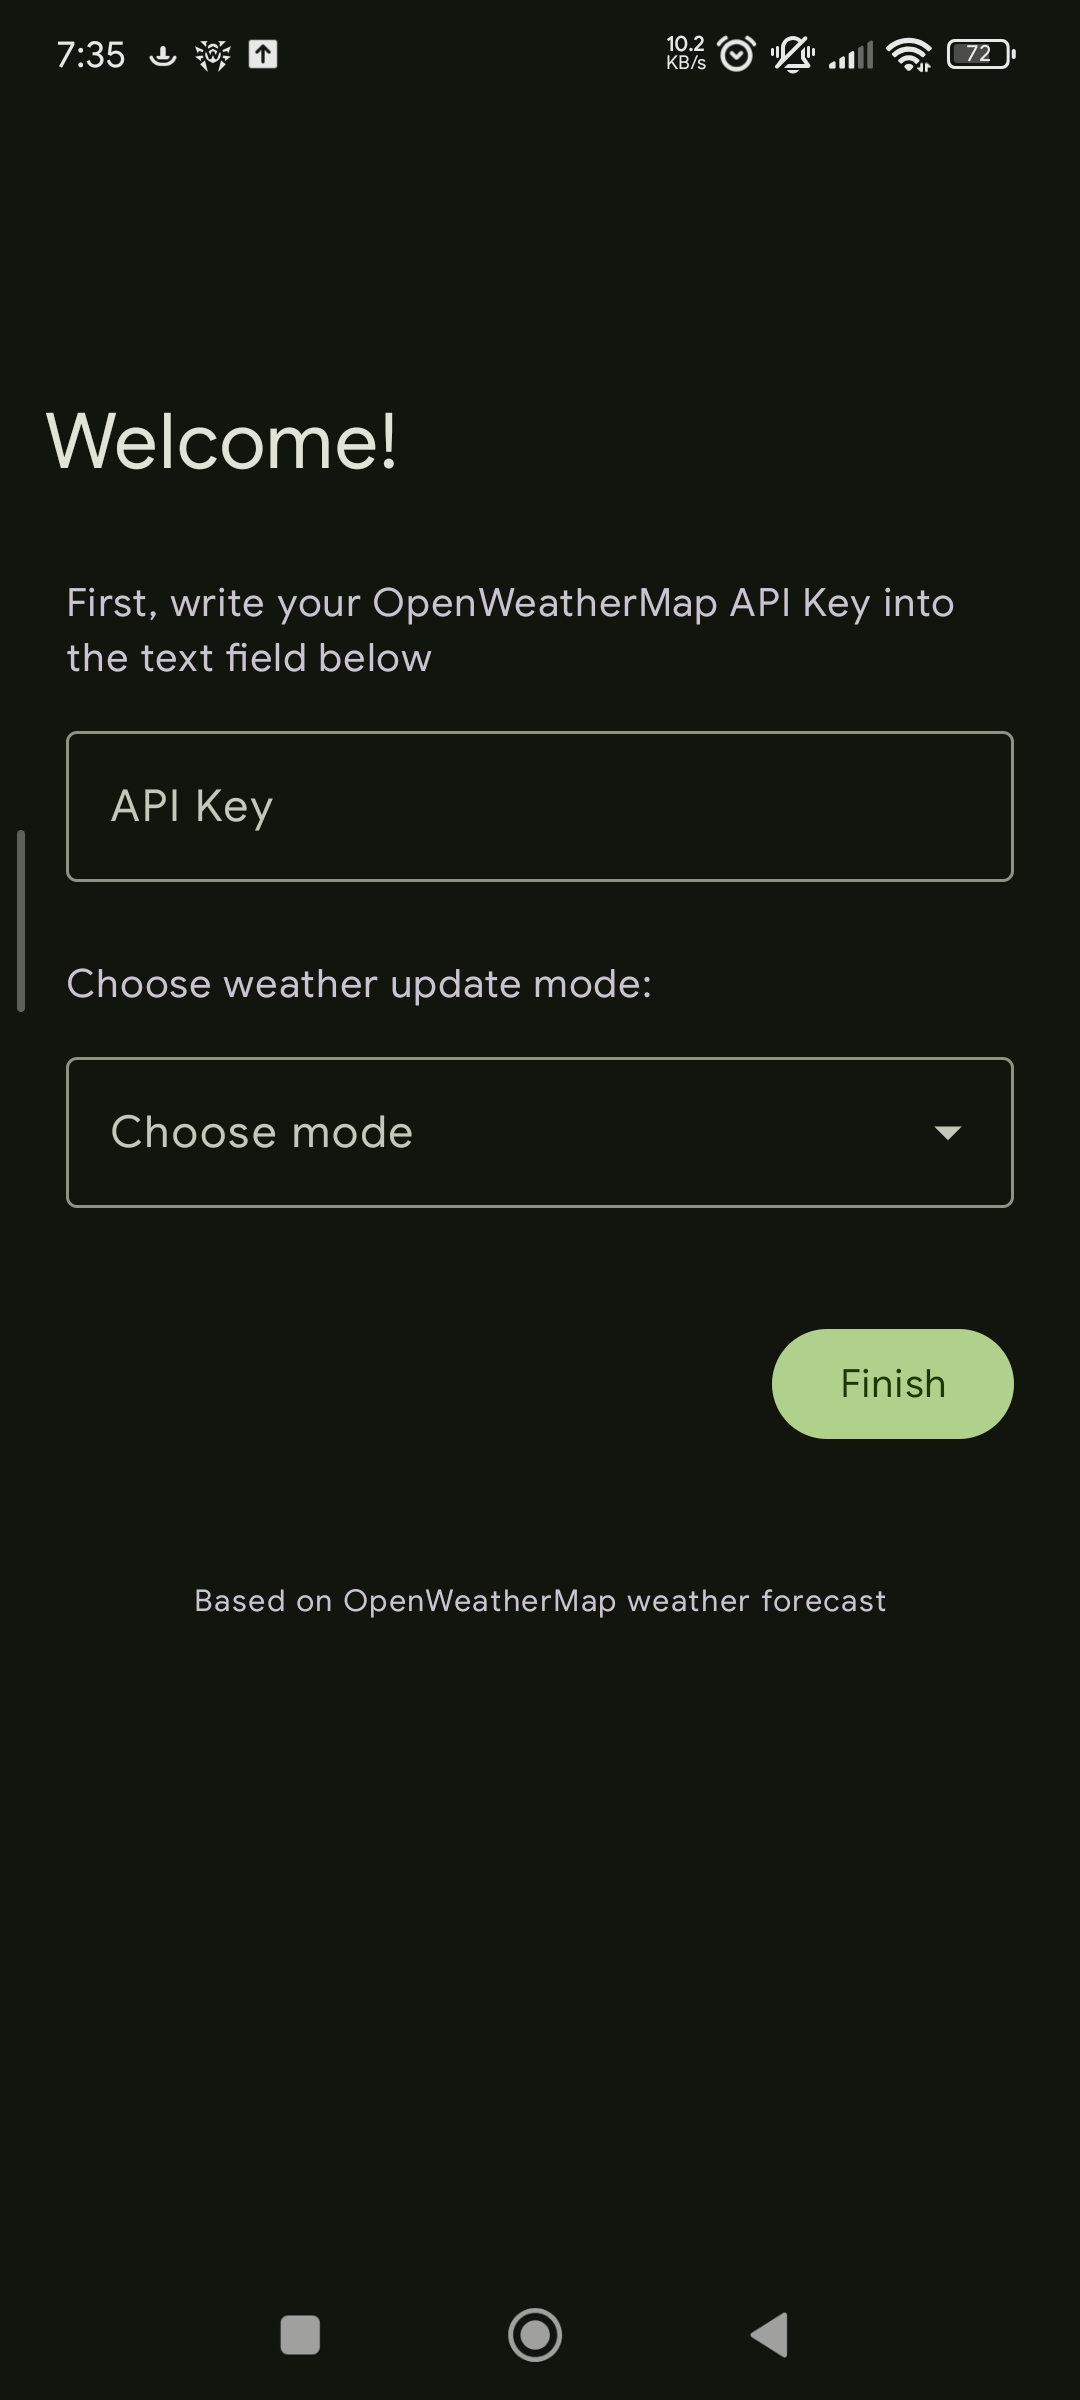
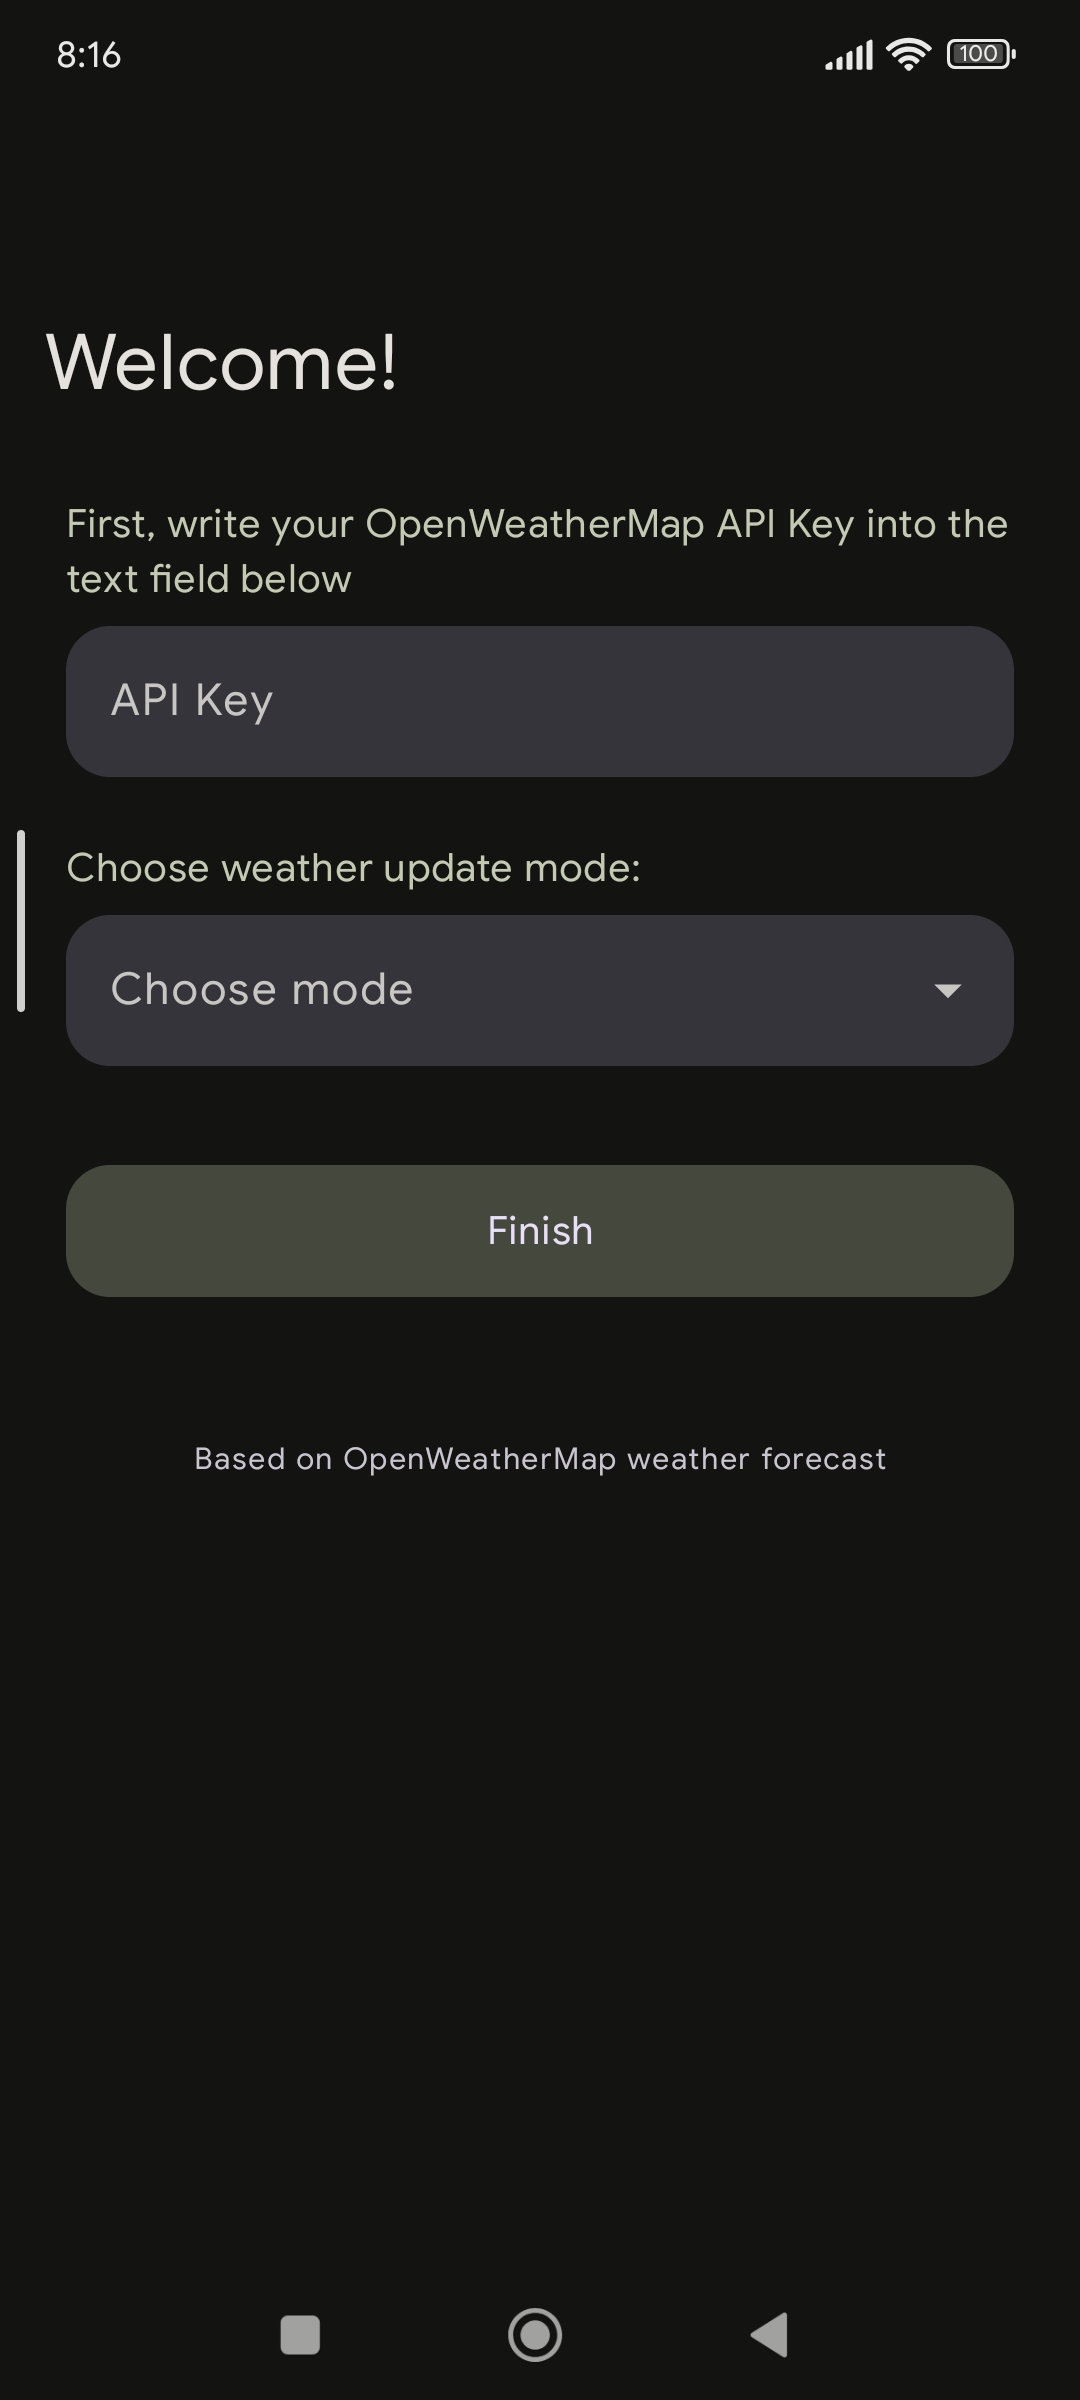
Update app screenshots

diff --git a/README.md b/README.md
@@ -19,7 +19,7 @@
 
 ## Screenshots
 <p align="center">
-  <img src="screenshots/first_setup.jpg" width="240" alt="First Setup Screen">  <img src="screenshots/main_screen.jpg" width="240" alt="Main Screen">
+  <img src="screenshots/first_setup.jpg" width="240" alt="First Setup Screen">  <img src="screenshots/main_screen.jpg" width="240" alt="Main Screen"> <img src="screenshots/settings_screen.jpg" width="240" alt="Settings Screen">
 </p>
 
 ## Tech Stack & Specifications
